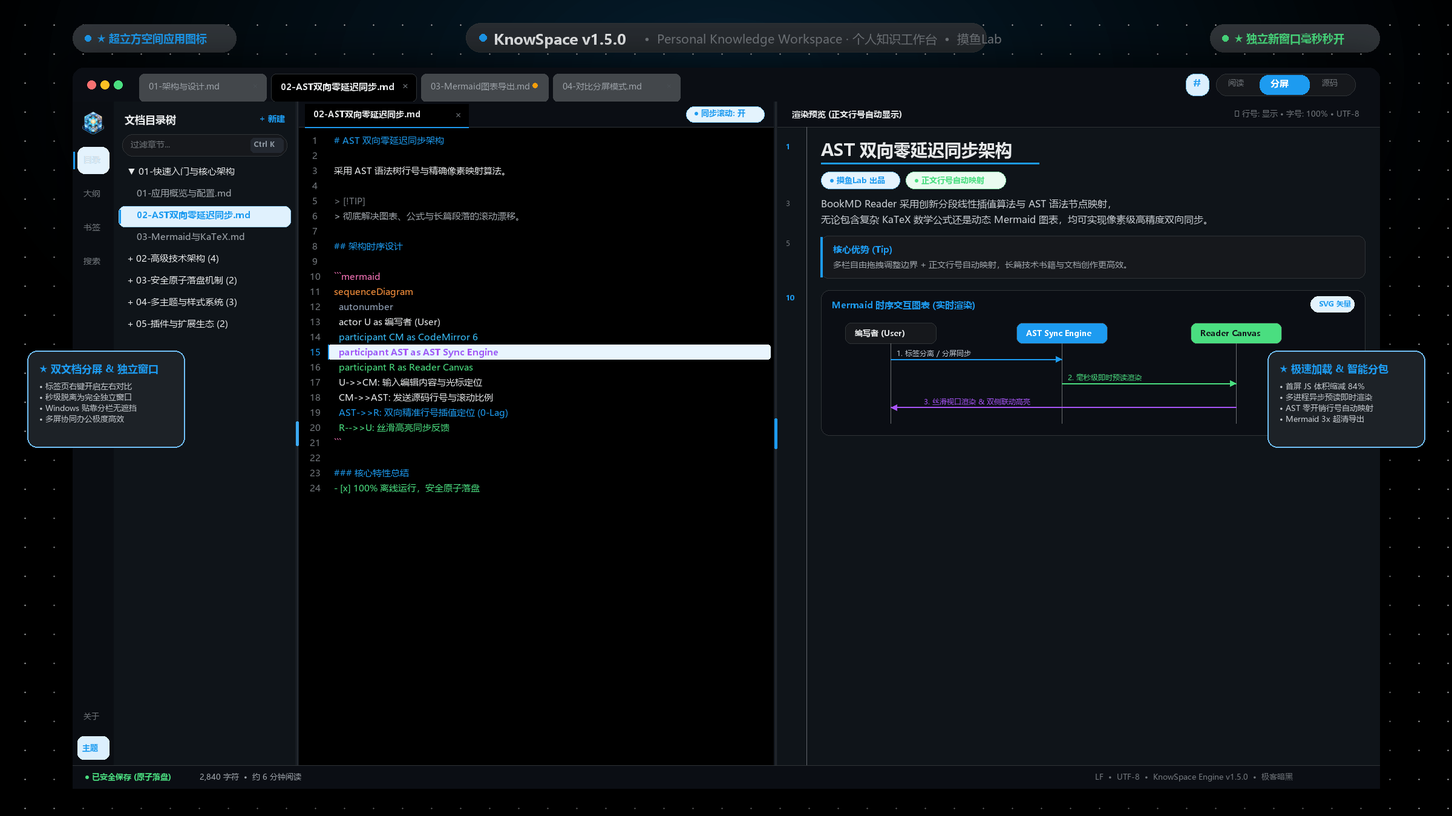
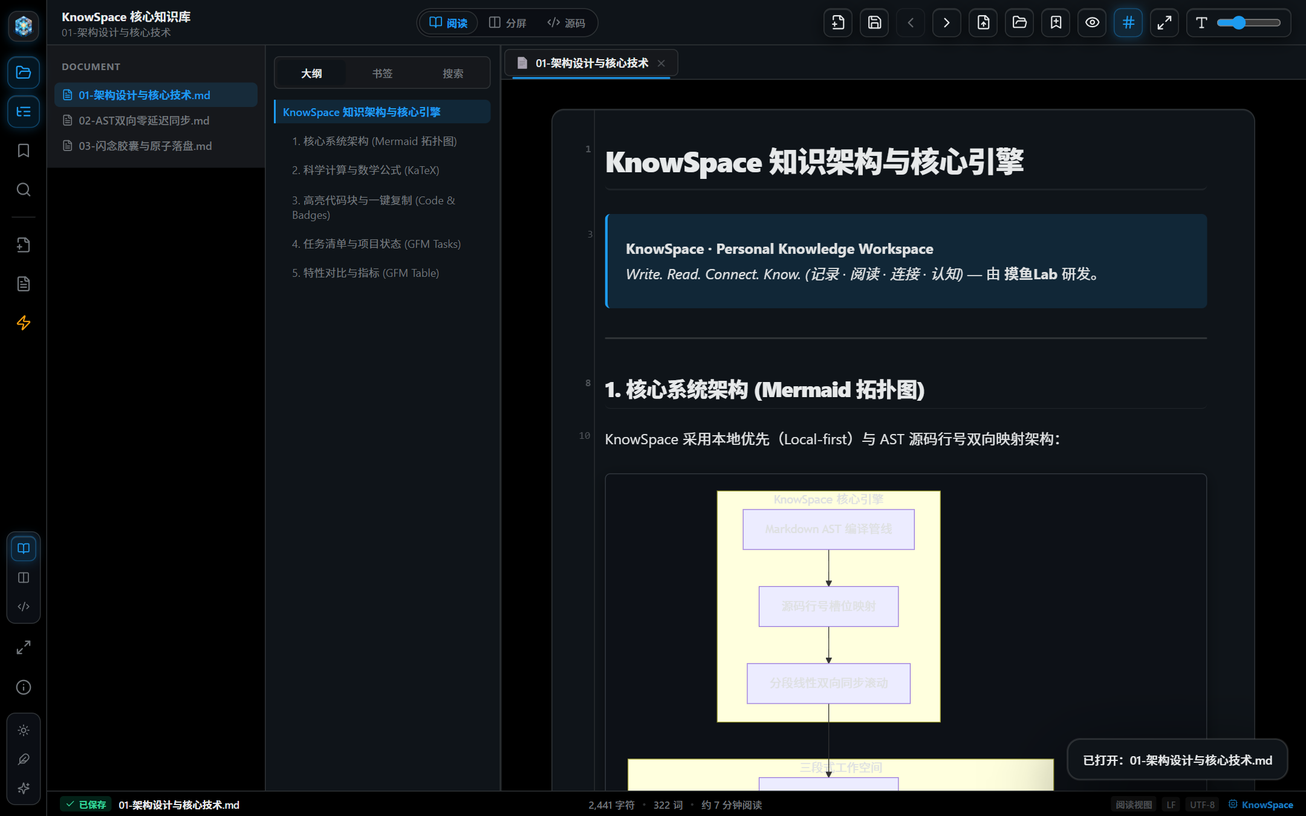
style: remove rounded corners and reduce border/padding in preview interface

diff --git a/src/styles.css b/src/styles.css
@@ -1417,20 +1417,20 @@ body.is-resizing-col * {
   overflow-x: hidden;
   overflow-y: auto;
   box-sizing: border-box;
-  padding: 32px clamp(20px, 4vw, 56px) 80px;
-  scroll-padding-top: 24px;
+  padding: 12px clamp(8px, 1.8vw, 20px) 48px;
+  scroll-padding-top: 20px;
 }
 
 .frontmatter-card {
   width: 100%;
   max-width: 100%;
   box-sizing: border-box;
-  margin: 0 auto 24px;
-  padding: 20px 28px;
+  margin: 0 auto 16px;
+  padding: 16px 22px;
   border: 1px solid var(--border);
-  border-radius: var(--radius-card);
+  border-radius: 0;
   background: var(--surface);
-  box-shadow: var(--shadow-card);
+  box-shadow: none;
 }
 
 .frontmatter-card strong {
@@ -1465,18 +1465,18 @@ body.is-resizing-col * {
   max-width: 100%;
   box-sizing: border-box;
   margin: 0 auto;
-  padding: 36px clamp(24px, 4vw, 52px);
+  padding: 24px clamp(18px, 2.8vw, 36px);
   border: 1px solid var(--border);
-  border-radius: var(--radius-card);
+  border-radius: 0;
   background: var(--surface);
-  box-shadow: var(--shadow-card);
+  box-shadow: none;
   font-family: -apple-system, BlinkMacSystemFont, "Segoe UI", Roboto, "Helvetica Neue", serif;
   font-size: calc(16px * var(--reader-scale));
   line-height: 1.75;
   color: var(--text);
   overflow-wrap: break-word;
   word-break: normal;
-  transition: box-shadow 0.2s ease, border-color 0.2s ease;
+  transition: border-color 0.2s ease;
 }
 
 .markdown-body p,
@@ -2381,11 +2381,13 @@ body.is-resizing-col * {
   }
 
   .reader-pane {
-    padding: 20px 14px 48px;
+    padding: 8px 8px 36px;
   }
 
   .markdown-body {
-    padding: 28px 20px;
+    padding: 16px 12px;
+    border-radius: 0;
+    box-shadow: none;
   }
 
   .status-metrics {
@@ -3582,7 +3584,7 @@ body.is-resizing-col * {
 .app-shell.is-fullscreen .reader-pane {
   width: 100%;
   height: 100%;
-  padding: 24px clamp(20px, 3.5vw, 48px) 60px;
+  padding: 12px clamp(8px, 1.8vw, 20px) 48px;
   overflow-x: hidden;
   overflow-y: auto;
   box-sizing: border-box;
@@ -3592,13 +3594,17 @@ body.is-resizing-col * {
   width: 100%;
   max-width: 100%;
   min-height: calc(100vh - 120px);
-  padding: 36px clamp(24px, 4vw, 56px);
+  padding: 24px clamp(18px, 2.8vw, 36px);
+  border-radius: 0;
+  box-shadow: none;
   box-sizing: border-box;
 }
 
 .app-shell.is-fullscreen .frontmatter-card {
   width: 100%;
   max-width: 100%;
+  border-radius: 0;
+  box-shadow: none;
   box-sizing: border-box;
 }
 

diff --git a/release/KnowSpace-win-x64/README.md b/release/KnowSpace-win-x64/README.md
@@ -10,7 +10,7 @@
 </p>
 
 <p align="center">
-  <img src="https://img.shields.io/badge/Version-v1.6.0-1D9BF0?style=flat-square&logo=github" alt="Version 1.6.0" />
+  <img src="https://img.shields.io/badge/Version-v1.7.0-1D9BF0?style=flat-square&logo=github" alt="Version 1.7.0" />
   <img src="https://img.shields.io/badge/Flash_Notes-Alt%2BSpace-F59E0B?style=flat-square" alt="Flash Notes" />
   <img src="https://img.shields.io/badge/Theme-E--ink%20Paper%20%7C%20Geek%20Dark-1D9BF0?style=flat-square" alt="Themes" />
   <img src="https://img.shields.io/badge/TypeScript-3178C6?style=flat-square&logo=typescript&logoColor=white" alt="TypeScript" />
@@ -53,137 +53,101 @@
 
 ## 🌟 核心功能特性
 
-### 1. v1.6.0 重磅更新：闪念胶囊速记、全局热键、后台常驻与开机自启动
-- **⚡ 闪念胶囊 (Flash Notes) 独立毛玻璃微窗**：
-  - 无论处于任何工作、游戏或编码窗口，按下全局快捷键（默认 `Alt + Space`）即刻在当前显示器黄金视线区域秒级唤起轻巧毛玻璃微窗（`620×380`）。
-  - **无打扰沉浸速记**：随时捕获灵感火花与即刻待办，失焦自动隐匿（Auto-Hide on Blur），按 `Esc` 键亦可快速退出。
-  - **快捷标记工具栏**：支持一键快速插入待办 (`- [ ] `)、标签 (`#`)、双链 (`[[`)、系统时间（`HH:MM`）及灵感卡片 (`> 💡 `)。
-  - **原子落盘与自动归档**：按下 `Ctrl + Enter` 瞬间触发保存并自动关闭微窗，按日期安全追加落盘到工作区 `Inbox/YYYY-MM-DD.md` 收集箱，主窗口知识库目录树无感实时刷新。
-- **⌨ 软件内自由自定义全局热键 (Customizable Global Hotkeys)**：
-  - 闪念胶囊微窗内点击快捷键胶囊或 ⚙ 设置按钮，即可滑出自定义热键抽屉。
-  - 支持常用快捷预设（`Alt+Space`、`Ctrl+Shift+Space`、`Alt+N`、`Ctrl+Alt+N`、`F9`）。
-  - **交互式键盘录制器**：点击录制输入框后直接在键盘上按下任意组合键，主进程即时校验并重注册全局热键，遇冲突给出友好警示并安全回滚，配置本地自动持久化。
-- **🗔 Windows 系统托盘后台运行 (System Tray & Background Running)**：
-  - 状态栏右下角常驻 KnowSpace 专属托盘图标，悬停提示「KnowSpace · 个人知识工作台」。
-  - **单击/双击托盘图标**：秒级显示并聚焦 KnowSpace 主窗口。
-  - **托盘右键菜单**：支持一键唤起闪念胶囊、打开工作台、切换开机自启动、切换关闭窗口时保持后台运行以及彻底退出。
-  - **关闭主窗口时最小化至托盘**：点击窗口右上角 ✕ 时隐藏至右下角系统托盘，全局热键与闪念胶囊持续就绪，未保存内容依然触发安全防丢稿弹窗。
-- **🚀 Windows 开机自启动与后台静默就绪 (Launch on Startup & Silent Launch)**：
-  - 支持随 Windows 开机自动启动并在后台静默就绪（`--hidden`），开机不弹出大窗口打扰用户，全局快捷键随叫随到。
-  - 在闪念胶囊设置抽屉与主窗口关于界面均提供一键开关，状态多端双向实时联动。
+### 1. ⚡ 闪念胶囊与 Space 沉淀看板 (Flash Capsule & Space Hub)
+*无论处于任何工作、游戏或编码窗口，灵感与待办随叫随到，打通从捕捉到沉淀成文的完整闭环。*
 
-### 2. v1.5.1 仿电子墨水屏纸质主题与视觉纯粹化
-- **📖 仿电子墨水屏护眼主题 (E-ink Paper Mode)**：
-  - 采用温暖纸质底色（`#f8f6f0` 暖羊皮纸米白）与高对比沉稳墨色字体（`#1a1a1a`），长时间深度阅读与写作柔和舒适、不刺眼。
-  - 墨水屏全链路统一浅灰色高亮系统（`#ded9cd` 底色与 `#9c9586` 灰框），Mermaid 架构图自动适配 Neutral 素雅黑白矢量风格。
-- **🎛 三主题直选分段控制组**：
-  - 左侧活动栏底部直选式三主题按钮：☀ 日光浅色 (Light) / 📖 仿电子墨水屏 (E-ink) / ✨ 极客暗黑 (Dark) 一键直达。
-- **🧹 界面纯粹化与视觉降噪**：
-  - 移除顶部右上角冗余的搜索及关于按钮，保留全局全文检索（`Ctrl+F`）与段落卡片聚合，界面更聚焦、更纯粹。
+<p align="center">
+  <img src="docs/manual-images/15-flash-capsule.png" alt="闪念胶囊与常驻模板" width="90%" style="border-radius: 10px; box-shadow: 0 12px 32px rgba(0, 0, 0, 0.35);" />
+</p>
 
-### 3. v1.5.0 经典生产力与视觉基石
-- **💎 全新「超立方空间」HyperSpace Cube 专属应用图标**：
-  - **构型**：一个半透明悬浮的等距等角投影（Isometric）多面体空间，内部悬浮着一颗发光的知识晶体核心（Knowledge Core）。
-  - **质感**：磨砂玻璃（Frosted Glassmorphism）质感，棱角分明，配合发光切面。
-  - **寓意**：收纳一切想法、文档、图表与知识的私密安全空间。
-  - **全链路换装**：全面覆盖 Windows `.exe` 原生可执行文件（含 `256×256` 至 `16×16` 完整 6 层 32-bit RGBA 帧）、窗口标题栏、任务栏以及内部关于界面与侧边活动栏。
-- **⚡ 独立新窗口毫秒秒开与性能极速优化（Instant Window Launch & Bundle Splitting）**：
-  - **84% 首屏 JS 体积大幅缩减**：对 Mermaid、CodeMirror 6、Highlight.js、KaTeX 等庞大模块进行细粒度 Rollup 代码分包，主入口体积从 2,001 kB 锐减至 332 kB，极大降低 Chromium V8 脚本解析执行耗时。
-  - **主进程异步预读与同步即时握手**：分离标签页拉起新窗口时，主进程在后台并行预读 Markdown，并通过预加载脚本同步注入文档数据，React 挂载首帧即刻完成正文渲染，彻底告别等待与白屏。
-- **🪟 多文档左右分屏对比查看模式（Dual Document Split View）**：
-  - 在多标签页栏上右键任意未激活标签页，即可选择「🗗 开启左右分屏模式」，实现同一窗口内同时并排查看与对照两份不同的 Markdown 文档。
-  - **极简沉浸布局**：分屏模式下自动隐藏左侧 ActivityBar 导航栏，释放最大化水平可视面积；中间分割线支持鼠标自由拖拽调整双栏比例，支持右键一键「关闭分屏模式」。
-- **🗗 标签页分离为独立新窗口（Detach Tab to Independent Window）**：
-  - 标签页右键菜单支持「🗗 分离到独立新窗口」，支持将任意标签页秒级脱离为主窗口之外的完全独立新窗口。
-  - 多窗口并行运作，每个窗口均具备独立的阅读、编辑、目录大纲与安全保存状态，多屏办公极度高效。
-- **🪟 Windows 系统桌面贴靠/分栏（Snap Layouts）完美适配**：
-  - 针对 Windows 10/11 的桌面贴靠分栏（`Win + ← / →` 左右对半、3 栏并排、4 象限分栏及高 DPI 屏幕缩放）进行了深度优化。
-  - 优化系统级最小窗口尺寸限制（360×240），彻底杜绝在桌面多窗口分栏时发生窗口溢出或与相邻窗口互相遮挡的问题；在窄屏状态下自适应弹性排版，体验严丝合缝。
-- **🎨 浅色主题暖橙黄高亮体系（Warm Amber-Orange Light Theme）**：
-  - 针对浅色模式全面定制了温暖雅致的暖橙黄色系（`#d97706` / `#f59e0b`），长时间阅读与写作柔和舒适、不刺眼。
-  - **编辑器端（CodeMirror 6）**：当前行激活背景、行号指示、光标（Caret）、选区高亮、搜索命中框均完美适配橙黄微光，一级标题与行内代码胶囊呈现温润暖色。
-  - **阅读器端（Reader）**：分屏双向同步选择高亮（`.sync-highlight-active`）、全文检索命中段落光晕与关键词徽标（`mark.search-keyword-match`）、原生 Markdown 高亮（`==高亮==` / `<mark>`）以及行内代码底色全链路自适应橙黄色调。
-  - **暗夜端保持极客纯粹**：极客暗夜（Lights Out）纯黑底色 (`#000000`) 与电光蓝 (`#1D9BF0`) 保持纯正质感。
-- **📑 多标签页协同编辑栏（Multi-Tabs Bar）**：
-  - 顶部原生文档标签栏，打开多个 Markdown 章节或独立文档随心并行切换。
-  - 支持未保存修改黄点呼吸灯状态（`isDirty`）、鼠标中键快速关闭。
-  - 右键上下文菜单支持：关闭当前、关闭其他、关闭右侧标签页、开启分屏对比、分离到独立新窗口。
-  - 快捷键支持：`Ctrl + W` 关闭标签、`Ctrl + Tab` / `Ctrl + Shift + Tab` 前后循环切换。
-- **🔍 图片与 Mermaid 架构图无损灯箱 & 3× 超清 PNG 导出（Media Lightbox & Hi-DPI PNG Export）**：
-  - 点击正文中的任何图片或 Mermaid 渲染图，一键呼出高画质毛玻璃全屏灯箱。
-  - 支持 0.2× ~ 6× 鼠标滚轮平滑缩放、鼠标任意拖拽平移及 `Esc` 退出。
-  - **Mermaid 架构图一键导出超高清 PNG**：基于 DOM 实时矢量包围盒（`getBBox()`）与 CSS 深度内联，自动应用主题底色与安全边距，以 3× Retina 超高清画质生成全幅无裁切的 PNG 图片，原生保存对话框安全落盘。
-- **✨ 纯净启动与文件秒开（Clean Startup & Instant File Loading）**：
-  - 独立双击打开软件时呈现清爽现代的无扰空白工作区与快捷操作引导（新建文档、打开文件/文件夹、常用快捷键向导），不强制加载示例文件。
-  - 完善 Windows 资源管理器双击 `.md` 文件关联唤起机制（`second-instance` 与启动文件映射），冷启动与多开场景下均可精准秒开对应文档。
-- **📁 目录树多级子目录折叠与展开（Collapsible Directory Tree）**：
-  - 支持任意层级的 Markdown 目录树结构，子目录点击轻松折叠/展开。
-  - 顶部提供「全部展开 / 全部折叠」快捷控制按钮。
-  - 自动持久化保存文件夹展开状态，重启应用或切换文档不丢失。
-- **📋 代码块一键复制与语言标签（Code Copy & Language Badges）**：
-  - 自动识别并呈现语法语言胶囊（`PYTHON`, `TYPESCRIPT`, `JSON`, `BASH` 等）。
-  - 一键复制代码至剪贴板，提供绿色 `✓ 已复制` 动效反馈。
-- **🧘 专注极简模式（Zen Mode / `F10`）**：
-  - 一键隐藏侧边栏、目录树与状态栏，正文自动居中呈现（960px 黄金阅读视宽），沉浸写作。
-- **✍ 打字机居中滚动模式（Typewriter Scrolling Mode / `Alt+T`）**：
-  - 编辑时保持活动光标行始终位于视口垂直中心（45%~50% 视线黄金区），免去频繁低头。
-- **⚡ 源码模式交互深度防抖与光标稳定优化**：
-  - 解决标题语法输入与目录刷新时的光标跳转问题，保证大段持续编写与标题输入平滑连贯。
-  - 优化源码模式下选区与行号联动机制，多行代码划选复制平滑稳定不抖动。
-  - 源码模式下点击大纲 (TOC) 或目录精准平滑滚动定位到对应代码行。
+- **全局毫秒唤起 (`Alt + Space`)**：支持自由按键录制自定义，在当前显示器黄金视线区域秒级唤起轻巧毛玻璃微窗（默认 `740×500`），失焦自动隐匿。
+- **📌 窗口钉住 (Pin)**：点击顶部 Pin 图标锁定微窗，鼠标在其他软件查资料点击时窗口不退散，从容对照录入。
+- **📝 常驻便签与提示词模板**：内置随写随存、归档不被清空的「常驻便签 / Prompt 模板」库，一键将模板内容填入闪念速记区。
+- **📐 自由拖拉拉伸与记忆**：胶囊微窗右下角配备专属点阵手柄，四周边框支持按住拉伸，长宽尺寸本地持久化记忆。
+- **🕒 分钟级 Space 智能存储**：自动安全按分钟命名落盘至 `Space/YYYY-MM-DD_HHmm.md`，同一分钟多次闪念自动追加并记录时分秒时间戳。
+- **📅 闪念时间线流式瀑布流**：主窗口左侧 ActivityBar 直选进入闪念看板，按“今天”、“昨天”、“更早”分段呈现，支持按内容、标签与待办即时搜索。
+- **☑ 待办清单与实时交互打勾**：集中归纳所有闪念中的 `- [ ]` / `- [x]` 待办，在面板中直接点击 Checkbox 即可实时同步写回源 Markdown 文件。
+- **📥 闭环并入正文**：闪念卡片支持一键在编辑器打开、一键以规范引用块直接并入当前编辑文档光标处、一键复制全文与安全清理。
+- **⚡ 即时通信响应**：闪念胶囊按 `Ctrl + Enter` 保存后，主窗口看板无需手动刷新，最新灵感即刻呈现。
 
-### 2. 现代视觉与三主题无缝交互系统
-- **三款专属调优主题（日光浅色 · 仿电子墨水屏 · 极客暗黑）**：
-  - **📖 仿电子墨水屏主题（E-ink Paper，v1.5.1 新增）**：模拟实体电子纸温润质感，采用高对比度黑白灰排版（`#f4f1ea` 纸白背景与 `#1a1a1a` 沉墨字色）、精致衬线排版、CodeMirror 6 专属墨水屏印刷风高亮以及 Mermaid 纯净灰度墨水矢量渲染，长时间沉浸阅读护眼无疲劳。
-  - **☀ 日光浅色主题（Warm Light）**：采用自然柔白底色 (`#ffffff` / `#f5f5f7`)、暖橙黄强调色 (`#D97706` / `#F59E0B`) 与温暖轻快的高亮配色。
-  - **✨ 极客暗夜主题（Geek Dark）**：采用 Lights Out 纯黑底色 (`#000000`)、电光蓝高亮 (`#1D9BF0`) 与发丝微边框 (`#2F3336`)。
-  - **无缝平滑轮播**：活动栏底部一键三态循环切换（日光浅色 ⇄ 仿电子墨水屏 ⇄ 极客暗黑）。
-- **📐 界面多栏边界自由鼠标拖拽调整（Resizable Splitters）**：
-  - **文档目录栏**（`ChapterList`，160px ~ 480px）、**大纲/书签/搜索侧栏**（`side-panel`，180px ~ 520px）以及**分屏模式下编辑器与预览窗口**（`DocumentWorkspace`，15% ~ 85%）均支持鼠标自由拖拽调整。
-  - 分栏处配备专属 `.layout-resizer` 分隔线，鼠标悬停即变双向调整箭头（`col-resize`），拖拽时光晕高亮反馈，并锁定文字划选（`user-select: none`），体验极致丝滑。
-  - 用户自定义分栏宽度与比例自动保存至本地 `localStorage`，重启软件自动恢复。
-- **左侧 Activity Bar 功能活动栏**：
-  - 顶部品牌专属 KnowSpace 超立方空间 Logo 徽章（摸鱼Lab 研发出品）。
-  - 快捷切换：📁 **文档目录树**、📑 **文档大纲 (TOC)**、⭐ **精选书签**、🔍 **全文即时检索**。
-  - 快速操作：➕ **新建文档** (`Ctrl+N`)、📂 **打开目录** (`Ctrl+Shift+O`)。
-  - 底部控制：微型三段式视图切换器、精选三主题无缝切换（☀ 日光浅色 / 📖 仿电子墨水屏 / ✨ 极客暗黑）。
-- **底部实时状态信息栏（Footer Dock Bar）**：
-  - **保存状态徽章**：绿色已保存（`● 已保存`）、橙色修改中（`● 未保存`）、青色只读标识。
-  - **实时文档统计**：字数、词数统计及阅读预估时长（例如 `2,450 字符 • 约 6 分钟阅读`）。
-  - **环境指标胶囊**：当前视图模式、换行符格式（`LF / CRLF`）、`UTF-8` 编码与 `KnowSpace` 引擎标识。
-- **弹性动力学动效**：全局接入 `cubic-bezier(0.16, 1, 0.3, 1)` 弹性物理缓动，抽屉展开与弹窗呼出丝滑轻快。
+---
 
-### 3. 编辑与创作
-- **三段式视图随心切换**：
-  - 📖 **阅读模式**：纯净无干扰的书籍沉浸式排版阅读。
-  - 🪟 **分屏模式**：左侧 CodeMirror 6 源码编辑、右侧实时渲染预览；支持鼠标自由拖拽分割线调整比例，在窄屏（`<980px`）下自适应垂直分屏。
-  - 💻 **源码模式**：全屏纯源码极客专注编写。
-- **🔢 正文预览区行号自动显示（Automatic Preview Line Numbers）**：
-  - 利用 Markdown 编译阶段 AST 元数据 `data-source-line`，在正文标题、段落、列表项、代码块、引用块及表格左侧槽位自动显示源码行号。
-  - 采用等宽字体（`JetBrains Mono` / `Consolas`）右对齐排版，鼠标悬停该文段时行号自动点亮为电光蓝（`#1d9bf0`），与源码侧行号精准对齐。
-  - 顶部工具栏提供快捷显隐切换按钮（`#`），随心一键切换开启或关闭。
-- **双向高精度同步滚动（Synchronized Scrolling）**：
-  - 基于 AST 块级源码行号标记（`data-source-line`）与分段线性插值算法，彻底消除富文本与源码高度差异产生的滚动漂移。
-  - 支持编辑器顶部一键开启/关闭同步滚动胶囊徽章（`🔗 同步滚动`）。
-- **CodeMirror 6 现代编辑器**：Markdown 语法高亮、实时行号、代码折叠、括号自动补全与撤销/重做历史。
-- **防抖实时预览与版本防乱序**：250ms 智能防抖渲染，结合 Revision 乱序淘汰机制，保障大段快速输入时预览流畅不丢帧。
-- **大文档性能守护**：超大文档（>2MB）自动开启性能保护模式，暂停高频防抖并提供手动一键刷新。
+### 2. ✍ 现代化极客编辑与媒体直插 (Modern Editor & Instant Media)
+*基于 CodeMirror 6 深度打造，毫秒级实时防抖渲染，零阻滞写作与代码编写。*
 
-### 4. 阅读与知识检索
-- **单文件与多层级文档库**：打开单个 `.md` 文件，或载入整套技术文档/书籍文件夹自动构建树状目录。
-- **稳定章节标识符**：基于相对路径哈希生成稳定 ID，文件夹增删改或文档重命名不丢失已有书签与阅读进度。
-- **动态大纲随动高亮**：正文滚动时多级大纲实时高亮当前小节，点击大纲平滑跳转。
-- **全文即时检索与卡片聚合**：
-  - 同一文段多次命中聚合为 1 张卡片，展示行号徽标（如 `L4`）、关键词精准高亮匹配、匹配总数与一键清空。
-  - 点击卡片精准平滑跳转定位，正文触发 1.8 秒专属呼吸电光蓝微光聚焦（`searchPulse`）。
-- **丰富富文本渲染**：完美支持 GFM 表格、任务清单、Front Matter 元数据标签、KaTeX 数学公式与 Mermaid 动态图表。
-- **🖥 全屏沉浸模式**：支持 `F11` 快捷键沉浸全屏阅读写作与 `Esc` 退出。
+- **🖼 剪贴板截图一键直接粘贴落盘 (`Ctrl + V`)**：截取微信、QQ、Snipaste 截图或网页图片后，在编辑器内直接粘贴，系统自动落盘至当前文档同级的 `assets/` 目录并插入 Markdown 相对路径，双栏即时渲染可见。
+- **📂 本地图片自由拖拽 (`Drop`)**：从桌面或资源管理器拖拽图片直接插入正文并自动存入 `assets/`。
+- **🔗 AST 零延迟双向高精度同步滚动**：基于源码 AST 块级行号与线性插值算法，富文本与源码高度差异无论多大均严丝合缝、彻底告别偏移。
+- **💡 选区联动微光指示**：在预览区点击任意段落，源码侧自动聚焦定位到对应行号并高亮提示。
+- **✍ 打字机居中滚动模式 (`Alt + T`)**：活动光标行始终锁定在垂直视线黄金中心（45%~50%），告别频繁低头。
+- **🔢 正文预览区行号联动显隐 (`#`)**：阅读侧与源码侧行号精准对齐，鼠标悬停点亮高亮。
+- **📋 代码块语言标签与一键复制**：自动识别语法语言胶囊，绿色动画反馈复制。
+- **🛡 大文档性能守护**：超大文档（>2MB）自动开启性能保护模式，智能防抖降载。
 
-### 5. 数据安全与防丢稿守卫
-- **原子事务落盘保存**：同目录临时文件写入 + `fsync` + 原子重命名替换，杜绝断电或异常退出的文件截断损坏。
-- **编码与换行风格保真**：自动识别并保留原文件的 UTF-8 BOM 以及 CRLF (`\r\n`) / LF (`\n`) 格式。
-- **外部修改冲突检测**：保存前校验磁盘 `{ size, mtimeMs }`。若文件被外部工具修改，自动弹出冲突协商弹窗（重新载入、强制覆盖或另存为）。
-- **全链路未保存守卫**：切换章节、新建文件、打开文件/目录或关闭窗口时，若有未保存修改均触发拦截提示，杜绝误操作丢稿。
+---
+
+### 3. 📖 沉浸排版阅读与科学图表渲染 (Reader & Scientific Rendering)
+*专为中文与西文混合长篇知识阅读打磨的排版艺术，兼具科学工程制图能力。*
+
+<p align="center">
+  <img src="docs/manual-images/14-media-lightbox.png" alt="媒体与架构图全屏灯箱" width="90%" style="border-radius: 10px; box-shadow: 0 12px 32px rgba(0, 0, 0, 0.35);" />
+</p>
+
+- **纯净阅读排版**：960px 黄金视宽、精调字间距与段落呼吸感，沉浸阅读无打扰。
+- **📊 Mermaid 架构图实时矢量渲染与 3× 超清导出**：实时渲染流程图、序列图、类图、思维导图、甘特图与状态图；支持以 3× Retina 超高清分辨率无裁切一键导出高质量透明或主题底色 PNG 图片。
+- **📐 LaTeX / KaTeX 科学公式支持**：行内公式 `\(...\)` 与独立大公式块 `\[...\]` 毫秒级原生渲染。
+- **🔍 媒体与架构图毛玻璃全屏灯箱 (Media Lightbox)**：点击正文中任意图片或架构图，一键呼出毛玻璃全屏灯箱，支持 0.2× ~ 6× 滚轮平滑缩放、鼠标拖拽平移与 `Esc` 快速退出。
+- **✨ 扩展 Markdown 语法增强**：GFM 表格自动对齐、任务列表、Front Matter 元数据标签、原生高亮（`==高亮==`）、删除线与脚注。
+
+---
+
+### 4. 🎨 三大沉浸式专属调优主题 (Three Immersive Themes)
+*覆盖日光、纸质与夜间多场景，左侧活动栏底部三态控制组一键直达。*
+
+| ☀ 日光浅色 (Warm Amber Light) | 📖 仿电子墨水屏 (E-ink Paper) | ✨ 极客暗黑 (Geek Dark) |
+| :---: | :---: | :---: |
+| ![日光浅色](docs/manual-images/02-theme-light.png) | ![墨水屏纸质](docs/manual-images/03-theme-eink.png) | ![极客暗黑](docs/manual-images/04-theme-dark.png) |
+
+- **☀ 日光浅色主题 (Warm Amber Light)**：自然柔白底色（`#ffffff` / `#f5f5f7`）与雅致暖橙黄强调色（`#D97706` / `#F59E0B`），温润柔和，长时间写作不刺眼。
+- **📖 仿电子墨水屏主题 (E-ink Paper)**：模拟真实电子纸温润质感，采用高对比羊皮纸白背景（`#f4f1ea`）与沉墨字色（`#1a1a1a`）、衬线排版、印刷风代码高亮及灰度矢量图表，深度阅读零疲劳。
+- **✨ 极客暗黑主题 (Geek Dark)**：Lights Out 纯黑底色（`#000000`）、电光蓝高亮（`#1D9BF0`）与发丝级科技微边框，在 OLED 屏幕上拥有纯净深邃的对比度。
+
+---
+
+### 5. 🪟 多文档协同、左右分屏与独立新窗口 (Multi-tabs & Window Management)
+*支持多任务并行协作，多屏办公极度高效。*
+
+<p align="center">
+  <img src="docs/manual-images/10-dual-split-compare.png" alt="双文档左右分屏对比模式" width="90%" style="border-radius: 10px; box-shadow: 0 12px 32px rgba(0, 0, 0, 0.35);" />
+</p>
+
+- **📑 多标签页协同编辑栏 (Multi-Tabs Bar)**：打开多个 Markdown 章节或独立文档随心并行切换，支持未保存修改呼吸灯指示（`isDirty`）、中键快速关闭与右键菜单。
+- **🗗 双文档左右分屏对比查看 (Dual Document Split View)**：在标签页上右键任意未激活文档即可开启分屏对比，中间分割线自由拖拽调整比例，同一窗口内对照两份文档。
+- **🗗 标签页分离为独立新窗口 (Detach Tab to Independent Window)**：标签页右键支持秒级脱离为主窗口之外的完全独立新窗口，各窗口拥有独立阅读、编辑、大纲与保存状态。
+- **📐 界面多栏边界自由鼠标拖拽 (Resizable Splitters)**：文档目录栏、侧边栏及分屏编辑器与预览窗口均支持鼠标自由拖拽调整，宽度自适应记忆。
+- **🪟 Windows 桌面贴靠适配 (Snap Layouts)**：深度调优最小窗口限制，在 Windows 10/11 进行 `Win + 左右分屏` 或 4 象限分栏时严丝合缝。
+
+---
+
+### 6. 🔍 知识大纲导航与全文段落卡片检索 (Search & Navigation)
+*结构化组织与秒级定位你的所有文档。*
+
+- **📁 目录树多级子目录折叠展开**：支持任意层级 Markdown 知识库树状结构，顶部提供「全部展开 / 全部折叠」，折叠状态本地持久化记忆。
+- **📑 动态大纲随动追踪 (TOC)**：动态提取文档各级标题，随阅读位置实时高亮当前小节，点击平滑滚动定位。
+- **⭐ 精选书签系统 (`Ctrl + B`)**：随手将重要小节或段落加入书签，自动记录精准滚动比例与摘录，随时一键重访。
+- **🔍 全文即时检索与卡片聚合 (`Ctrl + F`)**：毫秒级全文档关键词检索，卡片式聚合展示匹配段落与上下文，正文黄色呼吸光晕精准联动高亮。
+
+---
+
+### 7. 🛡 工业级数据安全体系与系统深度集成 (Desktop System & Security)
+*本地优先，保护你的每一份心血不被丢失。*
+
+- **🗔 Windows 系统托盘后台驻留**：关闭主窗口可常驻右下角系统托盘，全局热键与闪念胶囊随时待命，托盘菜单一键唤起。
+- **🚀 开机自启动与后台静默就绪 (`--hidden`)**：随 Windows 开机自动启动并在后台静默就绪，开机不弹出窗口打扰，随叫随到。
+- **📄 系统级文件关联秒开**：Windows 资源管理器双击任意 `.md` 文件，即刻唤起 KnowSpace 并精准聚焦打开对应文档。
+- **💾 物理事务原子落盘**：采用独立临时事务文件原子写回，杜绝因系统崩溃、断电导致文档损坏或空白文件。
+- **📝 文档编码与换行符保真**：完全保持源文件的 UTF-8 BOM 标记及 `CRLF / LF` 行尾格式不变。
+- **⚠ 外部修改智能冲突检测**：外部编辑器修改时自动侦测变更，提供差异对比与防丢稿拦截弹窗。
 
 ---
 
@@ -249,32 +213,42 @@
 
 ### Key Features
 
-- **「HyperSpace Cube」Aesthetic Icon**:
-  - *Structure*: A semi-transparent floating isometric polyhedron space housing a luminous Knowledge Core.
-  - *Texture*: Frosted glassmorphism with crisp polyhedral facets and luminous edge accents.
-  - *Metaphor*: A private, secure vault encapsulating all your ideas, documents, diagrams, and knowledge.
-  - *Full Pipeline Integration*: Embedded across Windows `.exe` native PE binaries (multi-res 16×16 to 256×256 32-bit RGBA frames), window title bars, taskbars, and in-app interfaces.
-- **Instant Detached Window Launch & Bundle Optimization**: 84% reduction in main entry JavaScript bundle size (down to 332 kB via smart Rollup chunks) paired with main-process asynchronous pre-reading and synchronous preload handshakes, eliminating startup latency and blank frames entirely.
-- **Dual Document Split View**: Right-click any inactive tab to launch side-by-side comparison mode, viewing two documents simultaneously with auto-hidden activity bar and draggable splitter.
-- **Detach Tab to Independent Window**: Right-click any tab to detach it into a standalone Electron window with isolated reading, editing, and saving states.
-- **Windows Desktop Snap Layouts Compatibility**: Optimized window minimum dimensions (360×240) preventing window overlap/clipping when snapping windows on Windows 10/11 desktops (1/2, 1/3, 1/4 grid tiles).
-- **Warm Amber-Orange Light Theme & Geek Dark Theme**:
-  - *Light Mode*: Specially tailored warm amber-orange accent palette (`#D97706` / `#F59E0B`) with soft yellow code badges, warm active line/gutter highlights, smooth split sync selections, and comfortable text marks for long reading/writing sessions.
-  - *Dark Mode*: Authentic Lights Out pure black background (`#000000`) with luminous electric blue accents (`#1D9BF0`) and hairline borders (`#2F3336`).
-- **Multi-Tabs Document Bar**: Native tabbed navigation allowing simultaneous multi-document editing, dirty state indicators, middle-click close, right-click context menu, and keyboard shortcuts (`Ctrl+W`, `Ctrl+Tab`).
-- **Media Lightbox & 3× Retina PNG Export**: Fullscreen glassmorphic lightbox with smooth zoom (0.2×~6×) and panning for both images and Mermaid diagrams. Exports complete, centered, ultra-high-resolution (3x Retina) PNG diagrams using precise vector `getBBox()` boundary calculation.
-- **Clean Standalone Startup & Instant File Loading**: Modern uncluttered empty workspace and quick start guide when launched standalone without opening demo files automatically; instant file rendering on Windows file association double-clicks.
-- **Collapsible Multi-Level Directory Tree**: Intuitive tree navigation supporting folder expand/collapse with persistent expansion state and global expand/collapse controls.
-- **Zen Mode & Typewriter Scrolling**: Focus mode (`F10`) for distraction-free reading/writing and typewriter scrolling (`Alt+T`) to keep active editing line vertically centered.
-- **Cursor Stability & Jitter-Free Typing**: Fixed outline heading regeneration cursor jump bugs, ensuring uninterrupted markdown heading syntax input.
-- **Resizable Layout Splitters**: Drag and resize the directory sidebar (160px~480px), side panels (180px~520px), and split editor/preview ratio (15%~85%) freely with persistent layout state saved in `localStorage`.
-- **Automatic Preview Line Numbers**: Zero-runtime-overhead gutter line numbering powered by Markdown AST `data-source-line` attributes with hover highlights and top bar toggle button (`#`).
-- **Three Editing & Reading Modes**: Read mode (clean reader), Split mode (side-by-side editing with live preview & draggable splitter), and Source mode (fullscreen code editor).
-- **Bidirectional Synchronized Scrolling & Selection Highlighting**: Line-mapped piecewise linear keyframe interpolation using AST `data-source-line` attributes, paired with frame-scheduled selection highlighting and smooth upper reading zone alignment.
-- **CodeMirror 6 Editor**: Syntax highlighting, line numbers, code folding, auto-closing brackets, and undo/redo history.
-- **Safe Atomic Saving & Conflict Detection**: Same-directory temporary write + `fsync` + atomic rename, preserving UTF-8 BOM and CRLF/LF line endings. Automatically detects external modifications before writing.
-- **Status Bar Dock**: Real-time word count, character count, estimated read time, dirty status indicator badge, line ending format, and encoding.
-- **Distribution Packages**: Windows MSI installer (`KnowSpace-1.5.0.msi`) and zero-dependency portable package (`KnowSpace-win-x64-portable.zip`).
+- **⚡ Flash Capsule & Space Timeline Hub**:
+  - *Global Hotkey Quick Access*: Press `Alt + Space` anywhere to pop up a frosted-glass micro-window to capture thoughts and todos. Automatically hides on blur.
+  - *Pin Window & Persistent Templates*: Pin the capsule to keep it on top while researching. Built-in template drawer preserves recurring prompts and notes that are never wiped on archive.
+  - *Minute-Level Space Storage*: Saves timestamped notes to `Space/YYYY-MM-DD_HHmm.md`, auto-appending within the same minute.
+  - *Timeline & Interactive Todos*: Grouped by Today, Yesterday, and Older in the ActivityBar. Check off `- [ ]` / `- [x]` todos directly inside the hub with atomic writebacks to source markdown files.
+  - *Merge into Document*: Quick actions to append or insert notes as blockquotes into the active editor document.
+- **✍ Modern Editor & Direct Image Paste**:
+  - *Clipboard Image Paste (`Ctrl + V`)*: Paste screenshots or images directly into CodeMirror 6. Auto-saves timestamped image files into local `assets/` directory and inserts markdown syntax with instant live preview.
+  - *Image Drop*: Drag-and-drop image files from desktop directly into editor.
+  - *AST Precise Synchronized Scrolling*: Eliminates drift between source code and rich preview with piecewise linear interpolation.
+  - *Typewriter Mode (`Alt + T`)*: Keeps the active editing line vertically centered.
+  - *Automatic Line Numbers*: Gutter line numbering on both editor and preview with hover highlights.
+- **📖 Reader & Scientific Diagrams**:
+  - *Typography*: Beautiful 960px golden reading width, distraction-free reading experience.
+  - *Mermaid Diagrams & 3× Retina Export*: Renders flowcharts, mindmaps, sequence diagrams, and class diagrams. Exports ultra-sharp 3× Retina PNG diagrams.
+  - *LaTeX / KaTeX Formula Support*: Fast native inline `\(...\)` and block `\[...\]` math rendering.
+  - *Media & Diagram Lightbox*: Click any image or diagram for full-screen glassmorphic zoom (0.2×~6×) and smooth panning.
+- **🎨 Three Immersive Themes**:
+  - *Warm Amber Light*: Gentle warm amber accents (`#D97706` / `#F59E0B`) on soft white, easy on the eyes.
+  - *E-ink Paper*: High-contrast parchment paper style (`#F4F1EA`) with deep ink typography and greyscale diagrams.
+  - *Geek Dark*: Pure black background (`#000000`) with electric blue accents (`#1D9BF0`).
+- **🪟 Multi-tabs, Dual Split & Detached Windows**:
+  - *Multi-Tabs Bar*: Tab management with dirty state indicators, middle-click close, and tab switching.
+  - *Dual Document Split View*: Compare two Markdown files side-by-side with a draggable splitter.
+  - *Detach Tab to Standalone Window*: Pop any tab out into an independent Electron window.
+  - *Windows Desktop Snap Layouts*: Flawless docking on Windows 10/11 splits.
+- **🔍 Structure & Navigation**:
+  - *Collapsible Directory Tree*: Multi-level folder navigation with remembered expansion states.
+  - *Dynamic Table of Contents (TOC)*: Auto-highlighting current heading with smooth scroll navigation.
+  - *Fulltext Search (`Ctrl + F`)*: Instant paragraph card aggregation with synchronized keyword highlighting.
+  - *Bookmarks (`Ctrl + B`)*: Quick access to important sections with preserved scroll ratios.
+- **🛡 Desktop Integration & Data Security**:
+  - *System Tray & Silent Launch*: Runs quietly in system tray, instant background boot with Windows (`--hidden`).
+  - *File Association*: Instant launch on double-clicking any `.md` file in Windows Explorer.
+  - *Atomic File Saving & Encoding Fidelity*: Temp file atomic rename with fsync, preserving UTF-8 BOM and CRLF/LF line breaks.
+  - *Conflict Detection*: Automatic alert when files are modified externally.
 
 ---
 
